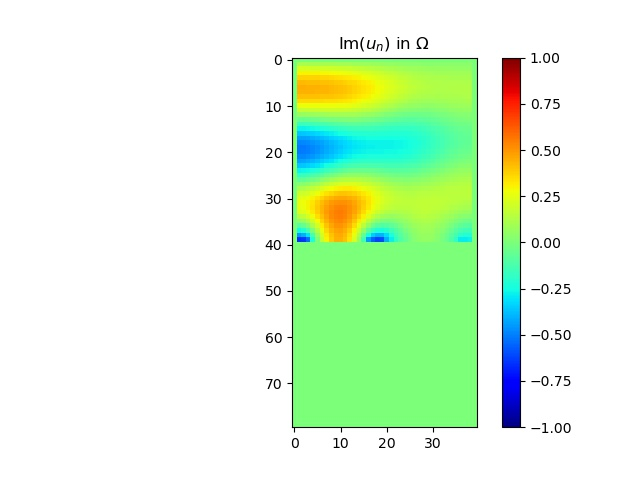
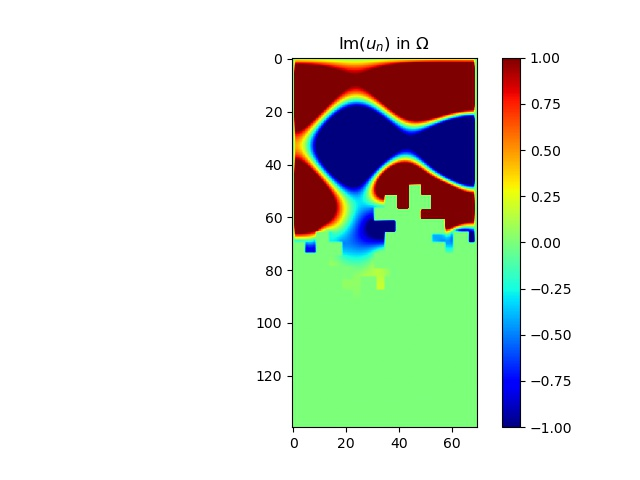
m

diff --git a/demo_control_polycopie.py b/demo_control_polycopie.py
@@ -236,9 +236,9 @@ if __name__ == '__main__':
     # -- Fell free to modify the function call in this cell.
     # ----------------------------------------------------------------------
     # -- set parameters of the geometry
-    N = 40  # number of points along x-axis
+    N = 70  # number of points along x-axis
     M = 2 * N  # number of points along y-axis
-    level = 0  # level of the fractal : limited by N
+    level = 2  # level of the fractal : limited by N
     spacestep = 1.0 / N  # mesh size
 
     budget = 0.3
@@ -290,6 +290,7 @@ if __name__ == '__main__':
     # budget : percentage of the border we can cover with liners
     # print(list_indice)
     energy_final = []
+    chi_final = []
 
     for o in range(len(list_indice)):
         indices = list_indice[o]
@@ -351,10 +352,20 @@ if __name__ == '__main__':
             if energy[p] > 0 and energy[p] < mini:
                 mini = energy[p]
         energy_final.append(mini)
+        chi_final.append(chi)
+
         postprocessing._plot_uncontroled_solution(u0, chi0)
         postprocessing._plot_controled_solution(un, chin)
         err = un - u0
         postprocessing._plot_error(err)
         postprocessing._plot_energy_history(energy)
+
+    ind = 0
+    mini_ener = energy_final[0][0]
+    for p in range(len(energy_final)):
+        if energy_final[p] < mini_ener:
+            mini = energy[p]
+            ind = p
     print(energy_final)
+    print(ind)
     print('End.')
